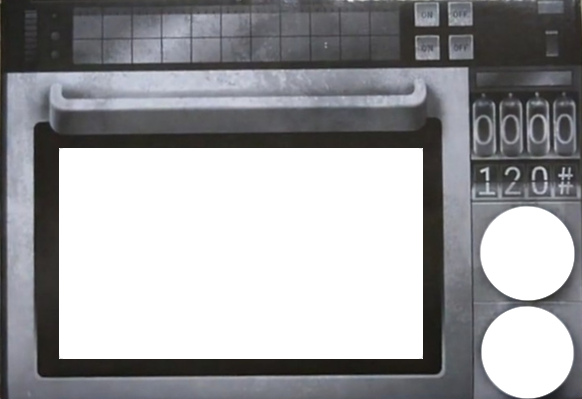
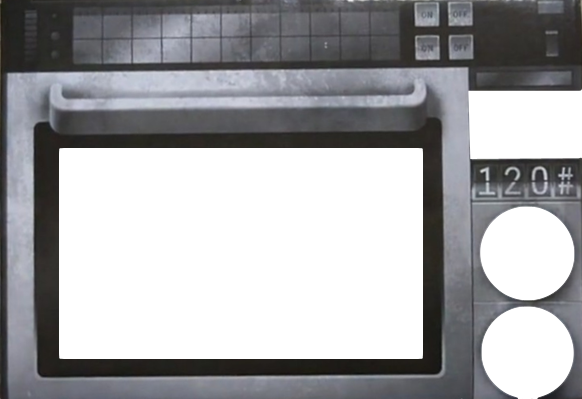
project

Changed region(s): [[0.8041, 0.2105, 1.0, 0.4211], [0.866, 0.9925, 0.9278, 1.0]]

diff --git a/yjo/main.html b/yjo/main.html
@@ -9,6 +9,7 @@
     <link rel="stylesheet" href="./css/bootstrap-theme.css">
     <link rel="stylesheet" href="./css/bootstrap.css">
     <script type="text/javascript" src="https://code.jquery.com/jquery-3.4.1.min.js"></script>
+    <script type="text/javascript" src="//dapi.kakao.com/v2/maps/sdk.js?appkey=394789c7d00f528c44b2755ef88617ae"></script>
     <script>
     $(function(){
         $('.tnb1').hover(function(){
@@ -111,7 +112,12 @@
                 $('.btn1').css({'transform' : 'rotate('+deg+'deg)'});
                 $('.btn2').css({'transform' : 'rotate('+deg2+'deg)'});
                 $('.txt_wrap').animate({left : '+=380'},1000);
+                if(img_position<10){
+                    $('#nix_s4_'+(img_position+1)).removeClass('nix_active');
+                    // $('#nix_s4_1').removeAttr('id');
+                    $('#nix_s4_'+img_position).addClass('nix_active').removeClass('nix_s4_1');
                 
+                }
             }
                 
             
@@ -126,11 +132,20 @@
                 $('.btn2').css({'transform' : 'rotate('+deg2+'deg)'});
                 $('.btn1').css({'transform' : 'rotate('+deg+'deg)'});
                 $('.txt_wrap').animate({left : '-=380'},1000);
+                if(img_position<10){
+                    $('#nix_s4_'+img_position).addClass('nix_active');
+                    // $('#nix_s4_1').removeAttr('id');
+                    $('#nix_s4_1').removeClass('nix_s4_1');
+                    $('#nix_s4_'+(img_position-1)).removeClass('nix_active');
+
+                }
                 
+
             }
 
             
         } );
+        
        
 
 
@@ -180,6 +195,15 @@
             });
         }
        
+    </script>
+    <script>
+        var container = document.getElementById('kakao_map'),
+         options = {
+            center: new kakao.maps.LatLng(33.450701, 126.570667),
+            level : 3
+        };
+        var map = new kakao.maps.Map(container, options);
+
     </script>
 </head>
 <body>
@@ -317,6 +341,56 @@
                 
                 <img class="btn1" src="./img/phonemicrowave-btn1.png" alt="">
                 <img class="btn2" src="./img/phonemicrowave-btn2.png" alt="">
+                <div class="nixwrap">
+                <div class="nixbg">
+                    <div id="nix_s1_0" class="nix">0</div>
+                    <div id="nix_s1_1" class="nix">1</div>
+                    <div id="nix_s1_2" class="nix">2</div>
+                    <div id="nix_s1_3" class="nix">3</div>
+                    <div id="nix_s1_4" class="nix">4</div>
+                    <div id="nix_s1_5" class="nix">5</div>
+                    <div id="nix_s1_6" class="nix">6</div>
+                    <div id="nix_s1_7" class="nix">7</div>
+                    <div id="nix_s1_8" class="nix">8</div>
+                    <div id="nix_s1_9" class="nix">9</div>
+                  </div>
+                  <div class="nixbg">
+                    <div id="nix_s2_0" class="nix">0</div>
+                    <div id="nix_s2_1" class="nix">1</div>
+                    <div id="nix_s2_2" class="nix">2</div>
+                    <div id="nix_s2_3" class="nix">3</div>
+                    <div id="nix_s2_4" class="nix">4</div>
+                    <div id="nix_s2_5" class="nix">5</div>
+                    <div id="nix_s2_6" class="nix">6</div>
+                    <div id="nix_s2_7" class="nix">7</div>
+                    <div id="nix_s2_8" class="nix">8</div>
+                    <div id="nix_s2_9" class="nix">9</div>
+                  </div>
+                  <div class="nixbg">
+                    <div id="nix_s3_0" class="nix">0</div>
+                    <div id="nix_s3_1" class="nix">1</div>
+                    <div id="nix_s3_2" class="nix">2</div>
+                    <div id="nix_s3_3" class="nix">3</div>
+                    <div id="nix_s3_4" class="nix">4</div>
+                    <div id="nix_s3_5" class="nix">5</div>
+                    <div id="nix_s3_6" class="nix">6</div>
+                    <div id="nix_s3_7" class="nix">7</div>
+                    <div id="nix_s3_8" class="nix">8</div>
+                    <div id="nix_s3_9" class="nix">9</div>
+                  </div>
+                  <div class="nixbg">
+                    <div id="nix_s4_0" class="nix">0</div>
+                    <div id="nix_s4_1" class="nix nix_s4_1">1</div>
+                    <div id="nix_s4_2" class="nix">2</div>
+                    <div id="nix_s4_3" class="nix">3</div>
+                    <div id="nix_s4_4" class="nix">4</div>
+                    <div id="nix_s4_5" class="nix">5</div>
+                    <div id="nix_s4_6" class="nix">6</div>
+                    <div id="nix_s4_7" class="nix">7</div>
+                    <div id="nix_s4_8" class="nix">8</div>
+                    <div id="nix_s4_9" class="nix">9</div>
+                  </div>
+                </div>
                 <div class="txt_container">
                  <div class="txt_wrap">
                      <ul>
@@ -350,7 +424,7 @@
             </div>
             <div id="content4">
                 <h3 class="skill">Contact</h3>
-                <div class="ft">
+                <div class="con_wrap">
                     <ul>
                         <li>Phone : 010-3202-2635</li>
                         <li>Email : yjo9515@naver.com</li>
@@ -362,6 +436,10 @@
 
 
 
+
+                </div>
+                
+                <div id="kakao_map">
 
                 </div>
                 

diff --git a/yjo/test2.html b/yjo/test2.html
@@ -1,0 +1,134 @@
+<!DOCTYPE html>
+<html>
+    <head>
+        <title>Nixie!</title>
+        <script src="http://code.jquery.com/jquery-1.8.3.js"></script>
+        <script src="http://code.jquery.com/ui/1.9.2/jquery-ui.js"></script>
+        <link href='http://fonts.googleapis.com/css?family=Advent+Pro:200' rel='stylesheet' type='text/css'>
+        <style type="text/css">
+
+            @font-face {
+                font-family: "Nixie Tubes";
+                src: url("./NixieTubes.woff");
+            }
+
+            .nixie {
+                font-family: Nixie Tubes;
+                font-size: 96px;
+                line-height: 128px;
+            }
+
+            .nixie .numeral {
+                position: relative;
+                display: inline-block;
+            }
+
+            .nixie .digit,
+            .nixie .background,
+            .nixie .foreground {
+                width: 78px;
+                height: 128px;
+                overflow: hidden;
+            }
+
+            .nixie .background {
+                /* background-color: black; */
+background: #000000; /* Old browsers */
+background: -moz-linear-gradient(left,  #000000 0%, #282828 40%, #282828 60%, #000000 100%); /* FF3.6+ */
+background: -webkit-gradient(linear, left top, right top, color-stop(0%,#000000), color-stop(40%,#282828), color-stop(60%,#282828), color-stop(100%,#000000)); /* Chrome,Safari4+ */
+background: -webkit-linear-gradient(left,  #000000 0%,#282828 40%,#282828 60%,#000000 100%); /* Chrome10+,Safari5.1+ */
+background: -o-linear-gradient(left,  #000000 0%,#282828 40%,#282828 60%,#000000 100%); /* Opera 11.10+ */
+background: -ms-linear-gradient(left,  #000000 0%,#282828 40%,#282828 60%,#000000 100%); /* IE10+ */
+background: linear-gradient(to right,  #000000 0%,#282828 40%,#282828 60%,#000000 100%); /* W3C */
+filter: progid:DXImageTransform.Microsoft.gradient( startColorstr='#000000', endColorstr='#000000',GradientType=1 ); /* IE6-9 */
+                
+            }
+
+            .nixie .digit,
+            .nixie .foreground {
+                position: absolute;
+                top: 0px;
+                left: 0px;
+            }
+
+            .nixie .digit {
+                text-align: center;
+                color: #333333;
+                opacity: .2;
+                background-color: transparent;
+                -webkit-transition:color 0.1s, opacity 0.1s, text-shadow 0.1s;
+            }
+
+            .nixie .digit.active {
+                color: #ffc900;
+                text-shadow: 0 0 .1em #FF2E00, 0 0 .2em #ff8f00, 0 0 .2em #ff8f00;
+                opacity: 1;
+            }
+
+            .nixie .foreground {
[1 lines of base64/hex data omitted]
+            }
+
+        </style>
+        <script language="JavaScript" type="text/javascript">
+            $(document).ready(function($){
+                    var counter = 0;
+
+                    setInterval(function(){
+                        counter++;
+                        if (counter > 9) {
+                            counter = 0;
+                        }
+
+                        $(".nixie .digit.active").removeClass('active');
+                        $(".nixie .digit.d"+counter).addClass('active');
+                    }, 1000);
+
+            }(jQuery));
+        </script>
+    </head>
+    <body>
+        <div class="nixie">
+            <div class="numeral">
+                <div class="background">&nbsp;</div>
+                <div class="digit d3">3</div>
+                <div class="digit d8">8</div>
+                <div class="digit d9">9</div>
+                <div class="digit d4">4</div>
+                <div class="digit d0">0</div>
+                <div class="digit d5">5</div>
+                <div class="digit d7">7</div>
+                <div class="digit d2">2</div>
+                <div class="digit d6">6</div>
+                <div class="digit d1">1</div>
+                <div class="foreground">&nbsp;</div>
+            </div><div class="numeral">
+                <div class="background">&nbsp;</div>
+                <div class="digit d6">6</div>
+                <div class="digit d5">5</div>
+                <div class="digit d7">7</div>
+                <div class="digit d4">4</div>
+                <div class="digit d8">8</div>
+                <div class="digit d3">3</div>
+                <div class="digit d9">9</div>
+                <div class="digit d2">2</div>
+                <div class="digit d0">0</div>
+                <div class="digit d1">1</div>
+                <div class="foreground">&nbsp;</div>
+            </div><div class="numeral">
+                <div class="background">&nbsp;</div>
+                <div class="digit d8">8</div>
+                <div class="digit d6">6</div>
+                <div class="digit d4">4</div>
+                <div class="digit d2">2</div>
+                <div class="digit d0">0</div>
+                <div class="digit d9">9</div>
+                <div class="digit d7">7</div>
+                <div class="digit d5">5</div>
+                <div class="digit d3">3</div>
+                <div class="digit d1">1</div>
+                <div class="foreground">&nbsp;</div>
+            </div>
+        </div>
+    </body>
+</html>

diff --git a/yjo/common.css b/yjo/common.css
@@ -430,6 +430,61 @@
         transition: all 0.5s ease-in-out;
         transform: scale(1.08);
     }
+    .nixwrap{
+        position: absolute;
+        overflow: hidden;
+        width: 112px;
+        height: 70px;
+        float: left;
+        top: 150px;
+        left: 517px;
+        background-color: #000000;
+        
+    }
+    .nixbg{
+        float: left;
+        position: relative;
+        margin-right: 3px;
+        width: 25px;
+        height: 70px;
+        background-image: url('./img/nixie.png');
+        background-size: cover;
+        
+    }
+    .nix{
+        width: 100%;
+    text-align: center;
+    position: absolute;
+    color: rgba(60, 40, 20, 1 );
+    pointer-events: none;
+    transition: color 0.5s, text-shadow 0.5s;
+    transition-timing-function: ease-out;
+    font-family: 'Josefin Sans', sans-serif;
+        font-size: 50px;
+        font-weight: 300;
+        line-height: 65px;
+        z-index: 0;
+        
+
+    }
+    .nix_s4_1 {
+        transition: color 0.2s, text-shadow 0.2s;
+        transition-timing-function: ease-out;
+        color: transparent;
+        text-shadow: 0 0 1px rgba(254, 252, 124, 1 ), 0 0 3px rgba(255, 217, 54, 0.7 ), 0 0 5px rgba(255, 0, 0, 1 ), 0 0 14px rgba(255, 0, 0, 1 ), 0 0 17px rgba(255, 0, 0, 1 ), 0 0 20px rgba(255, 0, 0, 1 ), 0 5px 25px rgba(0, 0, 255, 0.9 );
+        font-weight: 300;
+        z-index: 10;
+
+    }
+    
+    .nix_active{
+        transition: color 0.2s, text-shadow 0.2s;
+    transition-timing-function: ease-out;
+    color: transparent;
+    text-shadow: 0 0 1px rgba(254, 252, 124, 1 ), 0 0 3px rgba(255, 217, 54, 0.7 ), 0 0 5px rgba(255, 0, 0, 1 ), 0 0 14px rgba(255, 0, 0, 1 ), 0 0 17px rgba(255, 0, 0, 1 ), 0 0 20px rgba(255, 0, 0, 1 ), 0 5px 25px rgba(0, 0, 255, 0.9 );
+    font-weight: 300;
+    z-index: 10;
+    }
     .txt_container{
         position: relative; overflow: hidden; width: 400px; height: 412px; background-color: #fff;
         top: -180px;
@@ -452,5 +507,9 @@
     }
     
     
-    .ft{width: 100%; height: 200px; background-color: #fff;}
+    .con_wrap{width: 100%; height: 200px; background-color: #fff;}
     
+    #kakao_map{
+        width: 500px; height: 300px;
+        
+    }
